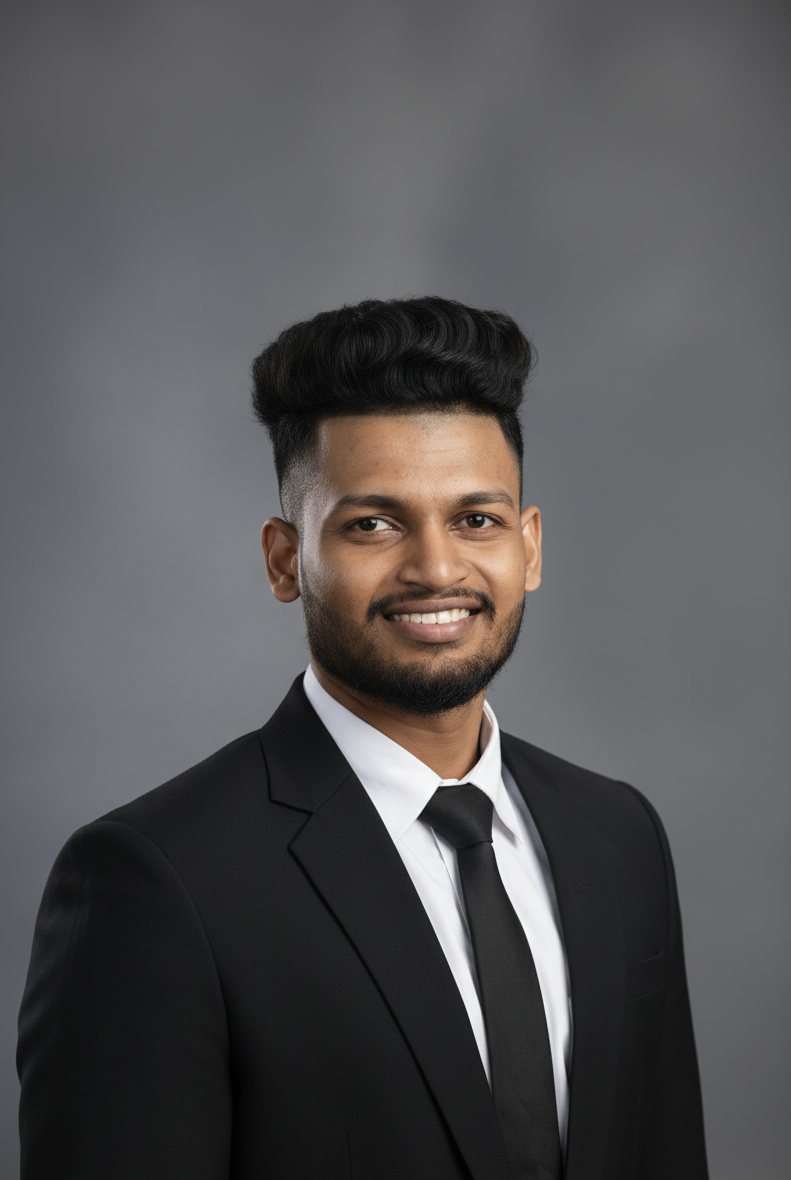
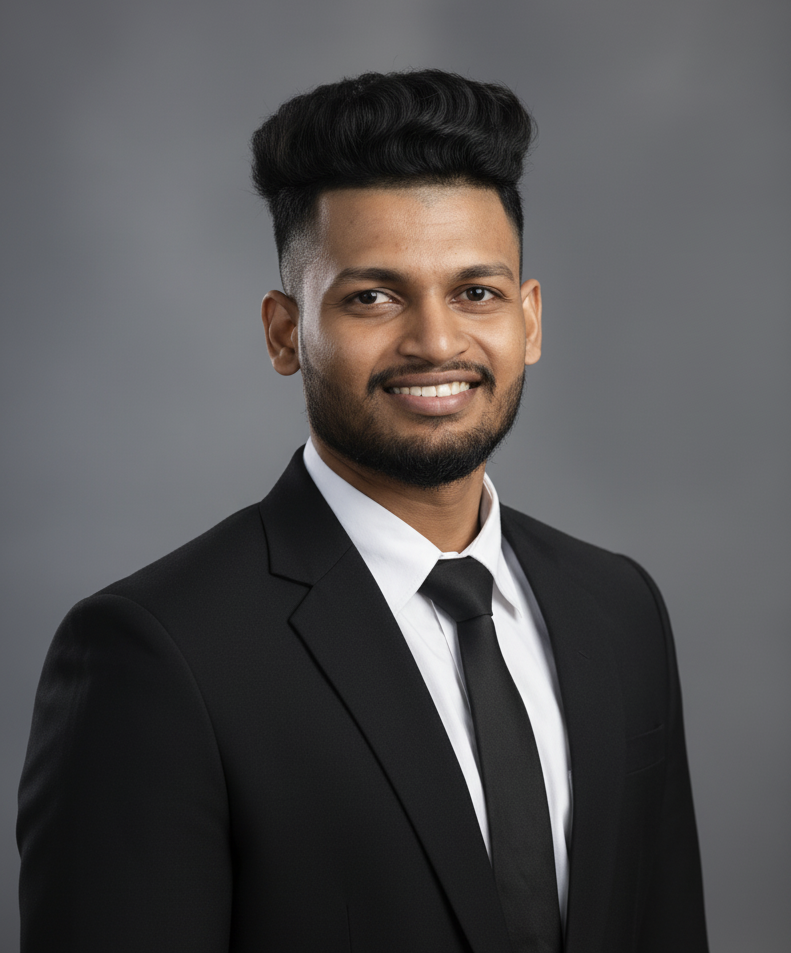
Fetch and render dynamic testimonials from backend database context in Services page Client Stories section

diff --git a/client/src/pages/Services.tsx b/client/src/pages/Services.tsx
@@ -3,7 +3,8 @@ import { useState } from "react";
 import { Link, useNavigate } from "react-router-dom";
 import toast from "react-hot-toast";
 import { ArrowRight, ChevronDown, Zap, Quote } from "lucide-react";
-import { services, techStack, processSteps, benefits, testimonials, faqs } from "../data/services-data";
+import { services, techStack, processSteps, benefits, faqs } from "../data/services-data";
+import { useAppContext } from "../context/appContext";
 
 /* ─── Animation variant ─────────────────────────────────────────── */
 const fadeUp = {
@@ -78,6 +79,7 @@ function FAQItem({ faq, index, open, onToggle }: {
 /* ─── Component ──────────────────────────────────────────────────── */
 export default function Services() {
     const navigate = useNavigate();
+    const { testimonials } = useAppContext();
     const [openFAQ, setOpenFAQ] = useState<number | null>(null);
 
     const handleCTA = () => {
@@ -362,7 +364,7 @@ export default function Services() {
                     <div className="grid grid-cols-1 md:grid-cols-3 gap-6">
                         {testimonials.map((t, i) => (
                             <motion.div
-                                key={i}
+                                key={t._id || t.id || i}
                                 custom={i}
                                 variants={fadeUp}
                                 initial="hidden"
@@ -371,14 +373,24 @@ export default function Services() {
                                 className="flex flex-col gap-5 border border-zinc-200 rounded-xl p-7 bg-white hover:shadow-md transition-shadow duration-300"
                             >
                                 <Quote size={22} className="text-zinc-300" />
-                                <p className="text-zinc-600 text-sm leading-relaxed flex-1 italic">"{t.quote}"</p>
+                                <p className="text-zinc-600 text-sm leading-relaxed flex-1 italic">
+                                    "{t.text || (t as any).quote}"
+                                </p>
                                 <div className="flex items-center gap-3 pt-4 border-t border-zinc-100">
-                                    <div className="size-9 rounded-full bg-zinc-900 text-white flex items-center justify-center text-sm font-medium shrink-0">
-                                        {t.initial}
-                                    </div>
+                                    {t.avatar ? (
+                                        <img 
+                                            src={t.avatar} 
+                                            alt={t.name} 
+                                            className="size-10 rounded-full object-cover border border-zinc-200 shrink-0" 
+                                        />
+                                    ) : (
+                                        <div className="size-10 rounded-full bg-zinc-900 text-white flex items-center justify-center text-sm font-medium shrink-0">
+                                            {t.name ? t.name.charAt(0).toUpperCase() : "C"}
+                                        </div>
+                                    )}
                                     <div>
                                         <p className="text-zinc-900 font-medium text-sm">{t.name}</p>
-                                        <p className="text-zinc-400 text-xs">{t.role}, {t.company}</p>
+                                        <p className="text-zinc-400 text-xs">{t.location || `${(t as any).role || 'Client'}, ${(t as any).company || 'Partner'}`}</p>
                                     </div>
                                 </div>
                             </motion.div>

diff --git a/client/src/pages/About.tsx b/client/src/pages/About.tsx
@@ -211,6 +211,9 @@ export default function About() {
                 </div>
             </section>
 
+            {/* ── 7. TEAM ────────────────────────────────────────────── */}
+            <TeamSection />
+
             {/* ── 5. CAPABILITIES ────────────────────────────────────── */}
             <section className="py-20 px-4 md:px-16 lg:px-24 xl:px-32 w-full">
                 <div className="max-w-7xl mx-auto grid grid-cols-1 lg:grid-cols-2 gap-16 items-center">
@@ -300,8 +303,7 @@ export default function About() {
                 </div>
             </section>
 
-            {/* ── 7. TEAM ────────────────────────────────────────────── */}
-            <TeamSection />
+            
 
         </div>
     );
